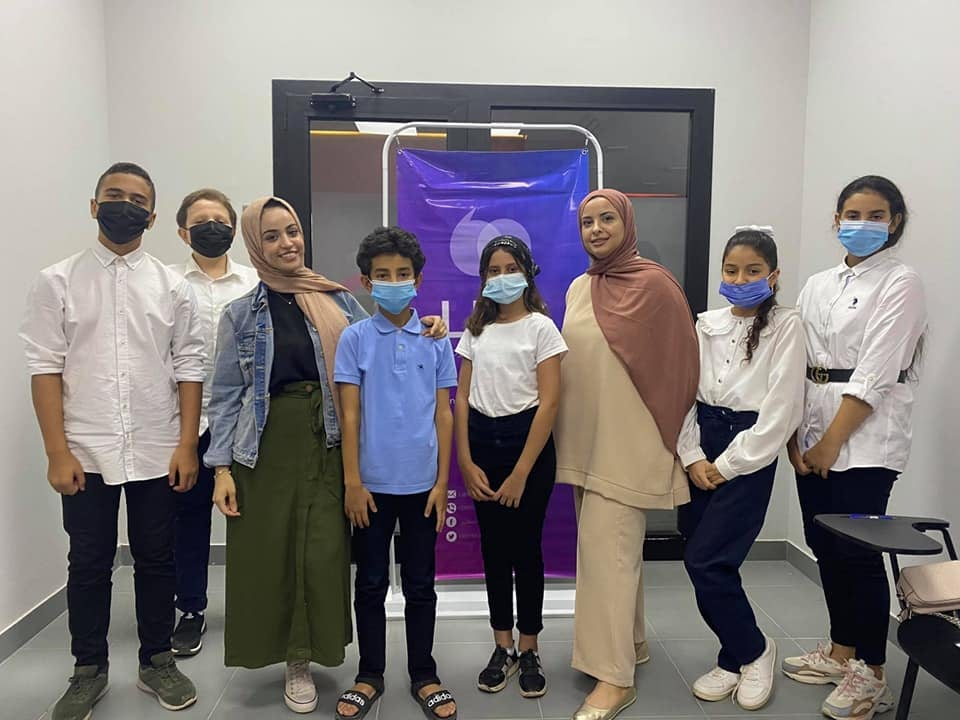
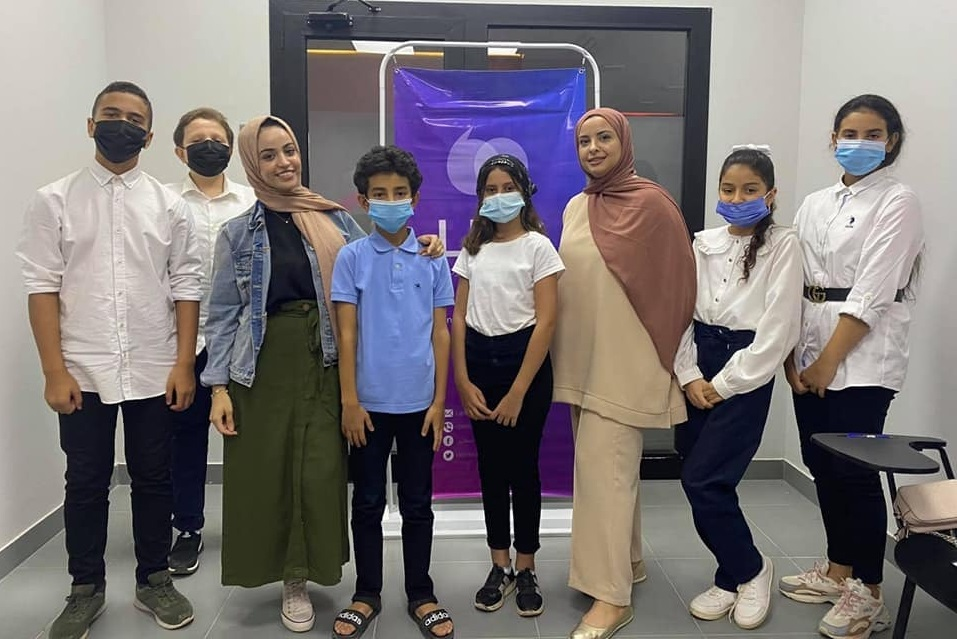
cropping images

diff --git a/css/styles.css b/css/styles.css
@@ -11180,9 +11180,8 @@ a {
   direction: rtl;
 }
 .slimg {
-  height: 100vh;
-  width: auto;
-  margin: auto;
+  height: auto;
+  width: 100vw;
 }
 #ymvl {
   border-style: solid;
